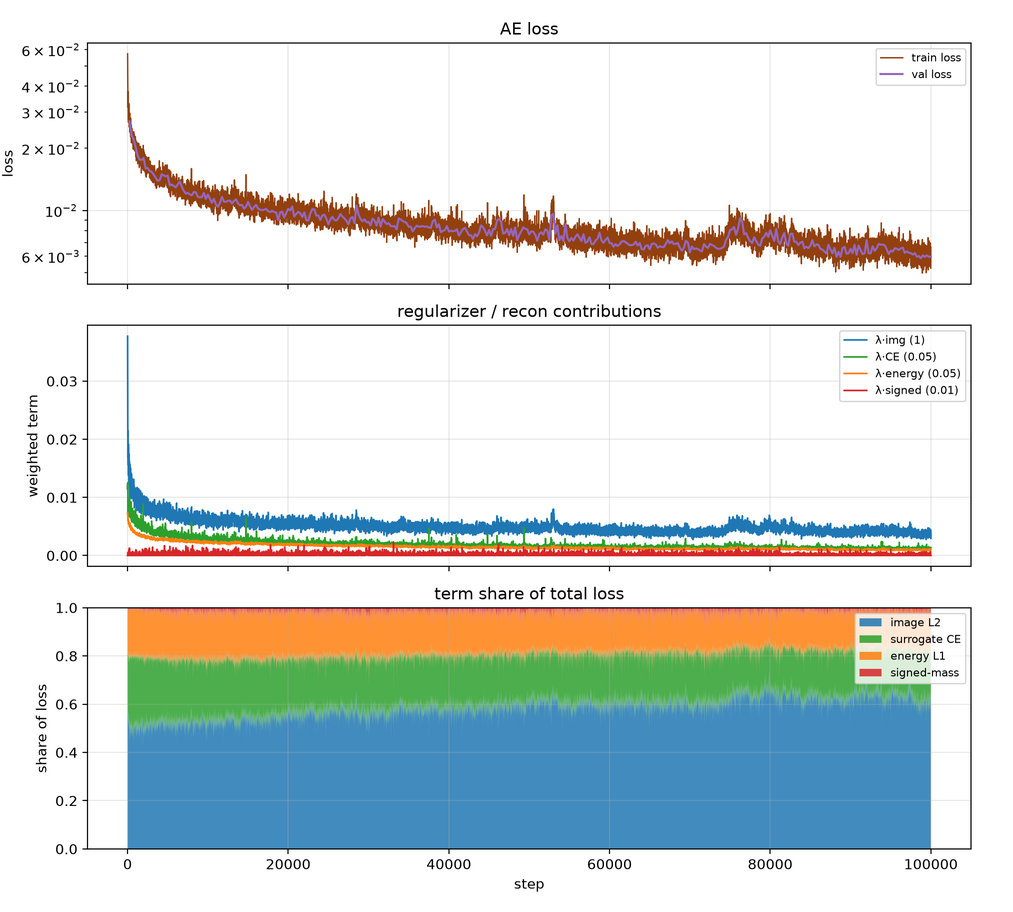
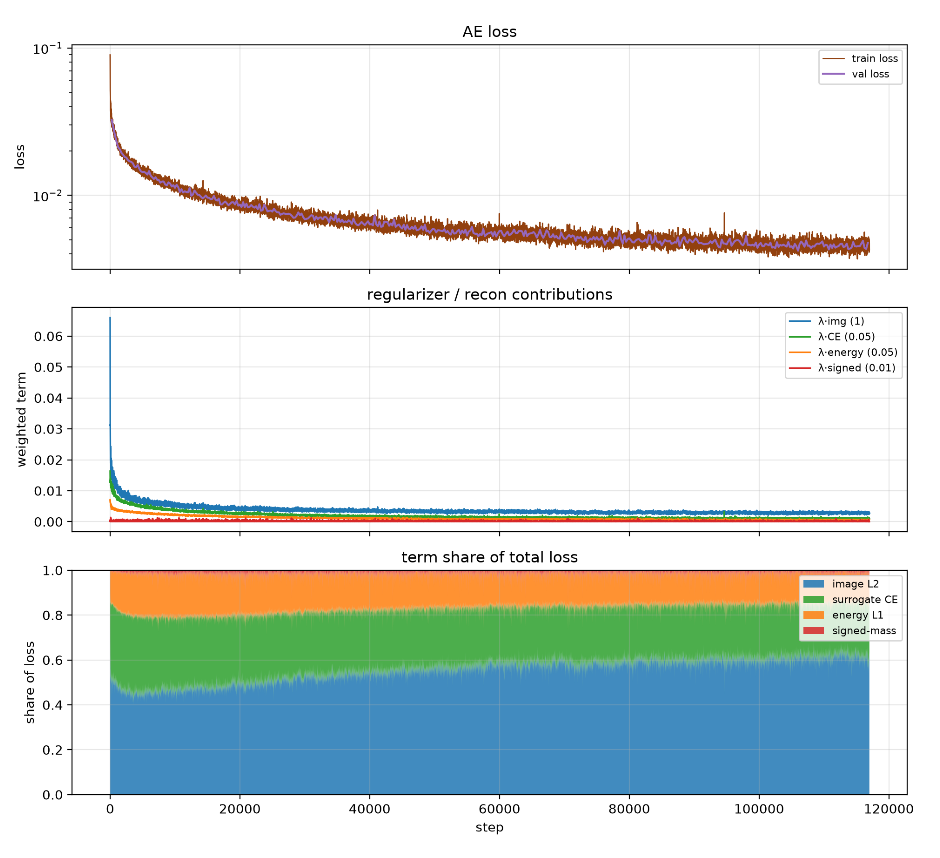
Show the 4-step AE gallery and loss curves in the README.
Keep the 16-step PNGs in doc/assets for comparison.

Changed region(s): [[0.0, 0.3636, 0.9872, 0.9697], [0.0, 0.0303, 0.9872, 0.6061]]

diff --git a/README.md b/README.md
@@ -91,13 +91,9 @@ practice — details in [training stack](doc/training-stack.md).
 
 ## Snapshot
 
-Tri-pair AE (`c128_k16` / `c256_k24` / `c512_k32`) on 32×32 grayscale images —
-gallery and curves around 100k steps with batch size of 32 i.e ~2.5 epochs (`image_autoencoder_tri_lnorm`).
-
-*Caveat: these results used the earlier **grouped** permutation layout (balanced
-contiguous source groups scattered across buckets). The code now uses a seeded
-full `randperm(N)`; the grouped constructor lives on
-[`archive/grouped-permutation`](https://github.com/matovitch/lpap/tree/archive/grouped-permutation).*
+Tri-pair AE (`c128_k16` / `c256_k24` / `c512_k32`) on 32×32 grayscale, 4 Euler
+steps per flow direction, batch 64 (~5.6 epochs at 117k steps;
+`image_autoencoder_tri_lnorm_4step`).
 
 ![AE gallery](doc/assets/ae-gallery.png)
 
